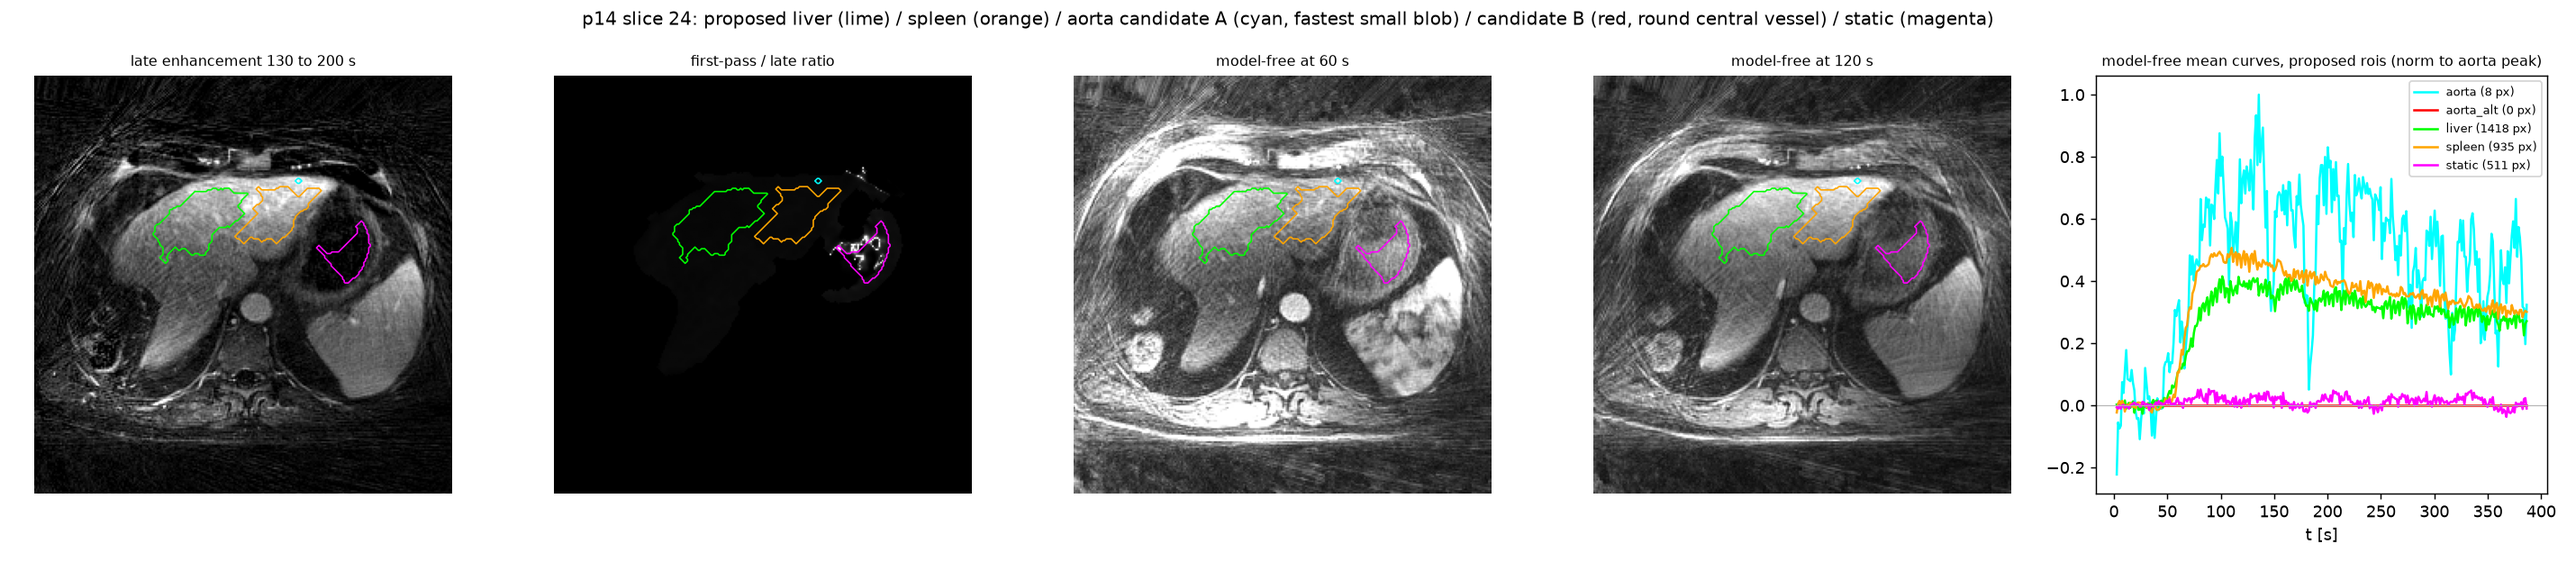
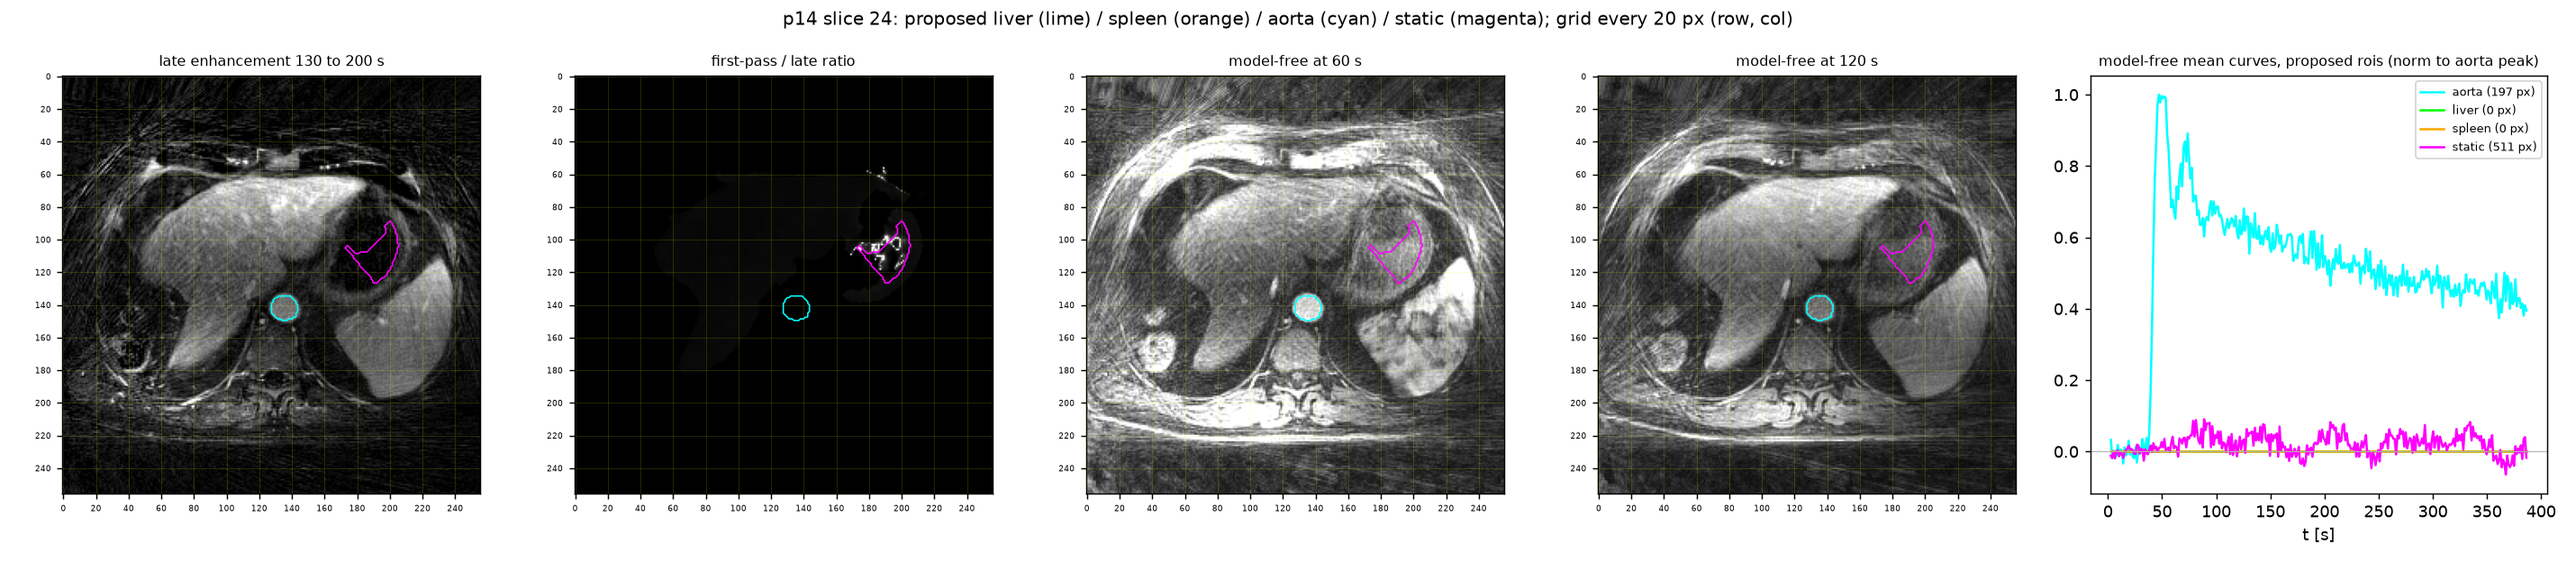
agent 2026-09-25 10:25 worker01.cluster: 9 files

diff --git a/jobs/agent/status.md b/jobs/agent/status.md
@@ -1,18 +1,17 @@
 # helios agent
 
-updated 2026-09-25 10:22:58 on worker01.cluster, job 3373495, cycle 135
+updated 2026-09-25 10:25:03 on worker01.cluster, job 3373495, cycle 136
 
 ## active
 
 | jid | script | state |
 |---|---|---|
-| 3380013 | 082_p14_rois_seeded | 1 PENDING None |
 
 ## done (last 20)
 
 | name | state |
 |---|---|
-| 082_p14_rois_seeded | 1 PENDING None |
+| 082_p14_rois_seeded | 1 COMPLETED 00:00:07 |
 | 081_p14_grids | 1 COMPLETED 00:00:20 |
 | 071_p14_prep_24_27 | 1 COMPLETED 00:33:45, 1 COMPLETED 00:49:26 |
 | 080_roi_p14_sl21_seed | 1 COMPLETED 00:00:06 |

diff --git a/results/realdata_nik_vs_cs_figures/rois_proposed_p14.md b/results/realdata_nik_vs_cs_figures/rois_proposed_p14.md
@@ -2,4 +2,6 @@
 
 | slice | liver px | spleen px | aorta px | static px | liver ttp s / plateau | spleen ttp s / plateau |
 |---|---|---|---|---|---|---|
-| 21 | 2076 | 1785 | 199 | 669 | 99 / 0.70 | 86 / 0.57 |
+| 21 | 1734 | 2020 | 199 | 669 | 134 / 0.69 | 79 / 0.56 |
+| 24 | 0 | 0 | 197 | 511 | 3 / 0.00 | 3 / 0.00 |
+| 27 | 1567 | 1435 | 176 | 389 | 94 / 0.67 | 76 / 0.56 |
